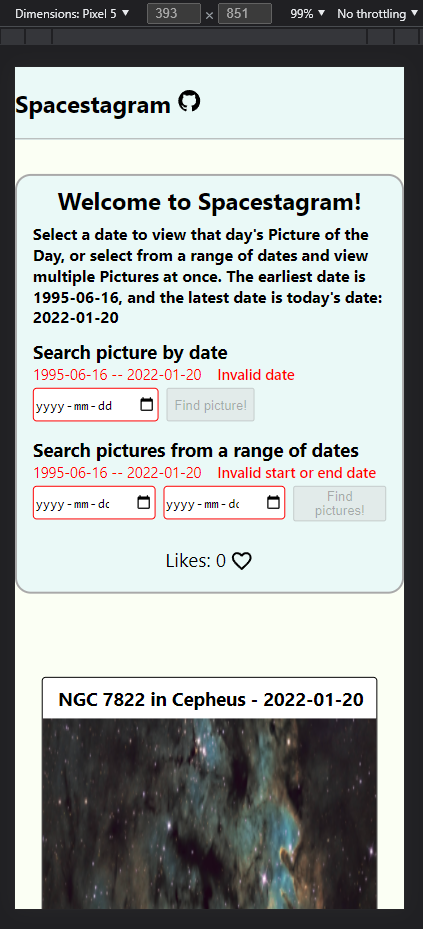
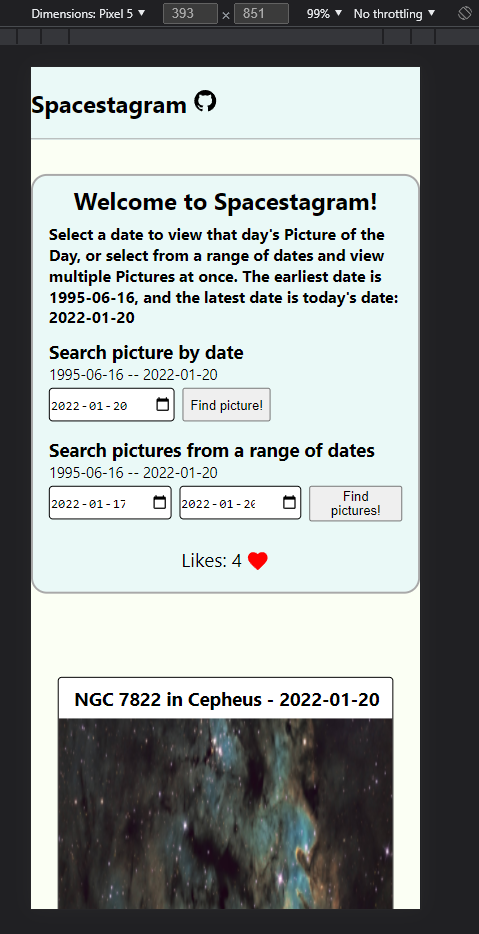
Fix mobile styling, update README

diff --git a/src/components/CardList/index.tsx b/src/components/CardList/index.tsx
@@ -1,5 +1,4 @@
 import React from "react";
-import styled from "styled-components";
 import Card from "../Card";
 import { NasaPost } from "../interfaces";
 
@@ -10,18 +9,13 @@ interface CardListProps {
   updateLikedPosts: (post: string, shouldRemove: boolean) => void;
 }
 
-const CardListContainer = styled.div`
-  display: flex;
-  justify-content: center;
-`;
-
 const CardList: React.FC<CardListProps> = (props: CardListProps) => {
   const { isLoading, posts, likedPosts, updateLikedPosts } = props;
 
   return isLoading ? (
     <h3>Loading...</h3>
   ) : (
-    <CardListContainer>
+    <div>
       {posts
         .slice(0)
         .reverse()
@@ -33,7 +27,7 @@ const CardList: React.FC<CardListProps> = (props: CardListProps) => {
             updateLikedPosts={updateLikedPosts}
           />
         ))}
-    </CardListContainer>
+    </div>
   );
 };
 

diff --git a/src/components/Card/index.tsx b/src/components/Card/index.tsx
@@ -13,10 +13,13 @@ interface CardProps {
 
 const CardContainer = styled.div`
   max-width: 86%;
-  margin: 12px 0;
+  margin: 12px 0 12px 42px;
   border: 1px solid #000000;
   border-radius: 4px;
   background-color: #ffffff;
+  @media (max-width: 768px) {
+    margin: 12px auto;
+  }
 `;
 
 const CardTitle = styled.h3`

diff --git a/README.md b/README.md
@@ -25,6 +25,7 @@
 - The buttons for searching pictures will be disabled if an error has occurred, or the page is still loading a previous request
   - Errors include choosing a date outside the bounds of the date boundaries (1995-06-16 to present date), and having the start date after the end date
   - If there is an error with the date picker or date range picker, an error message will appear above it
+- Application switches to single column layout when displayed on a screen size less than 768px in width
 
 # Demo
 
